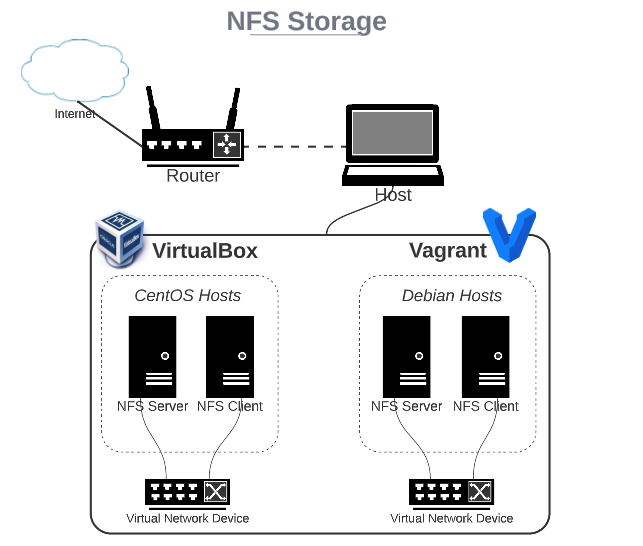
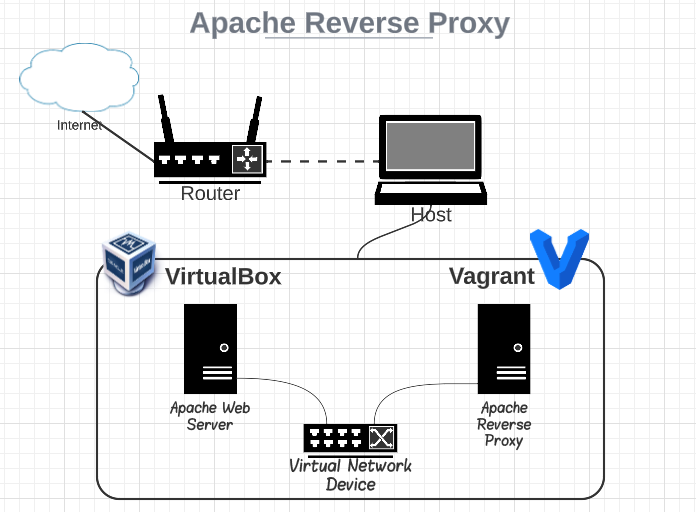
read me fixed

diff --git a/README.md b/README.md
@@ -1,6 +1,6 @@
-# NFS Storage
+# Apache Reverse Proxy
 
-This is an automated solution for NFS Storage created through Vagrant. Follow the steps below:
+This is an automated solution for Apache Reverse Proxy created through Vagrant. Follow the steps below:
  - clone the repository; 
  - open the directory in terminal;
  - execute the command `vagrant up`;
